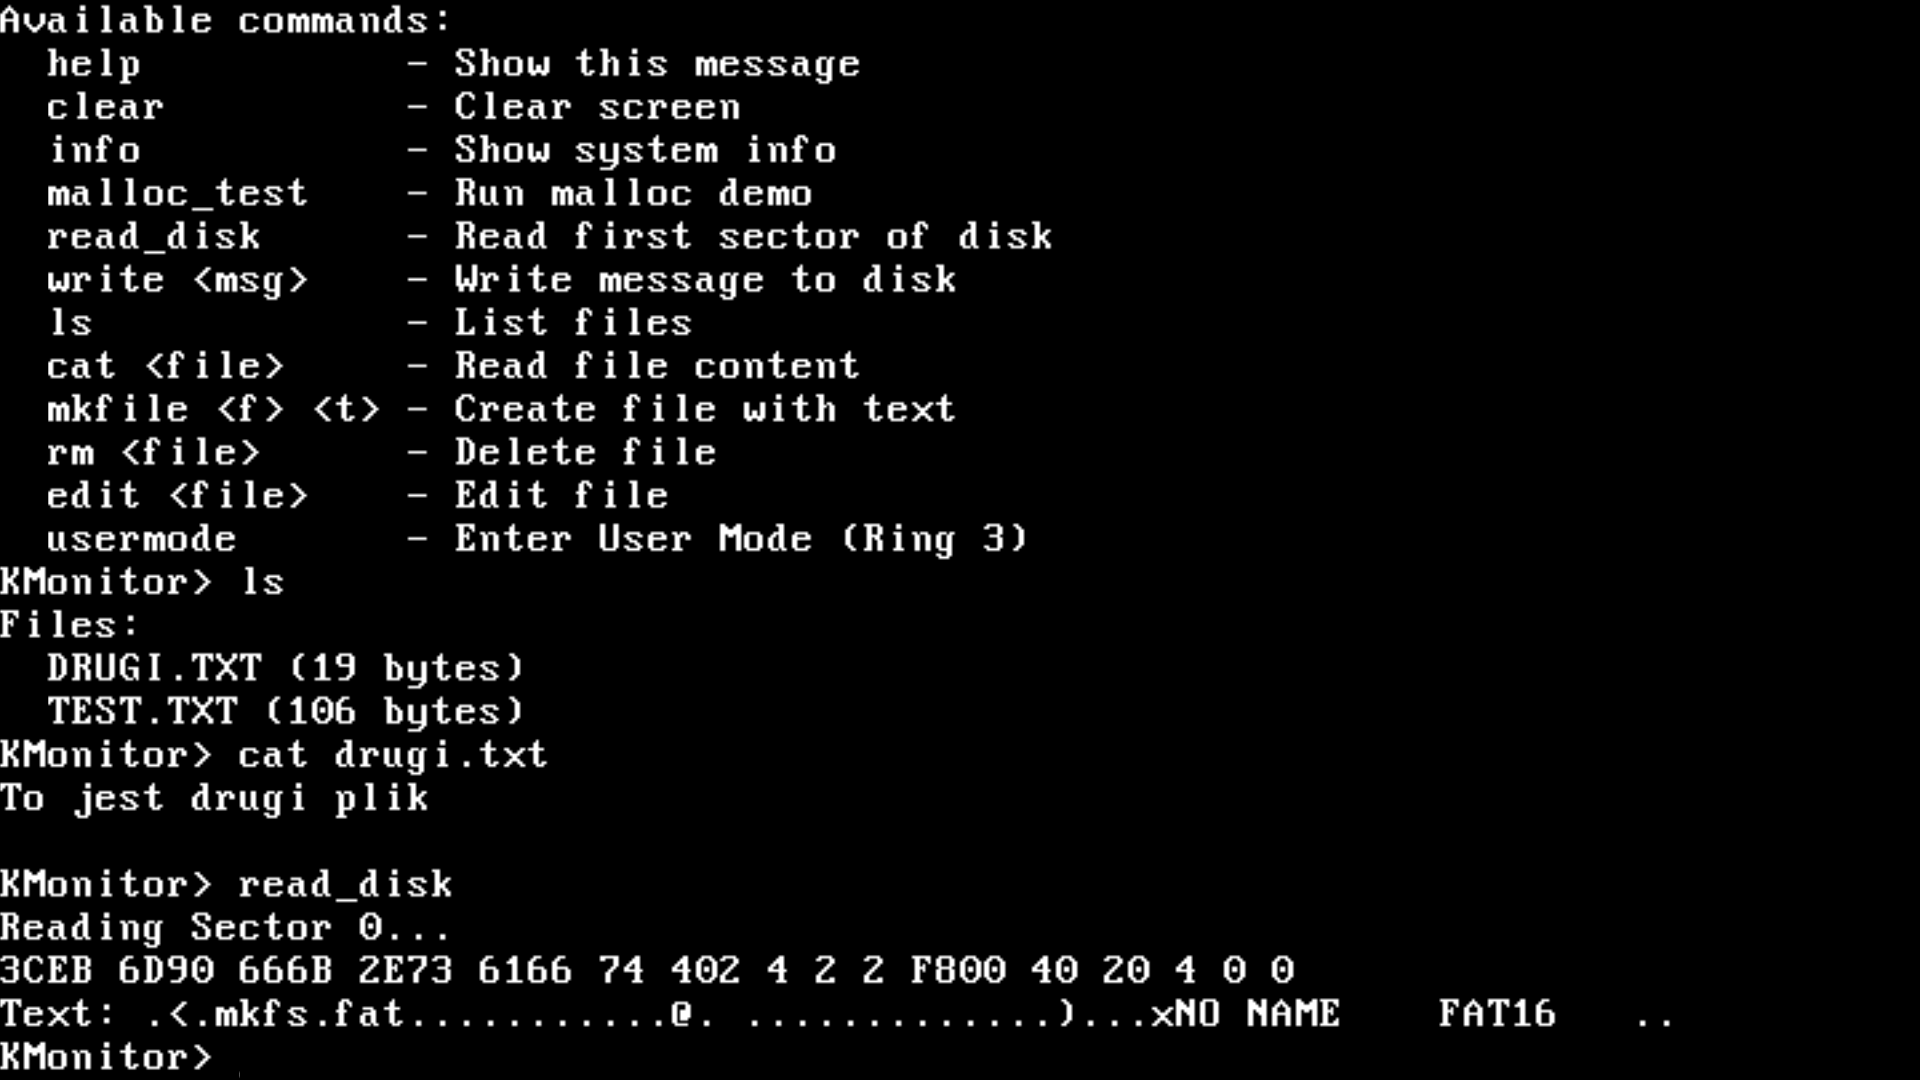
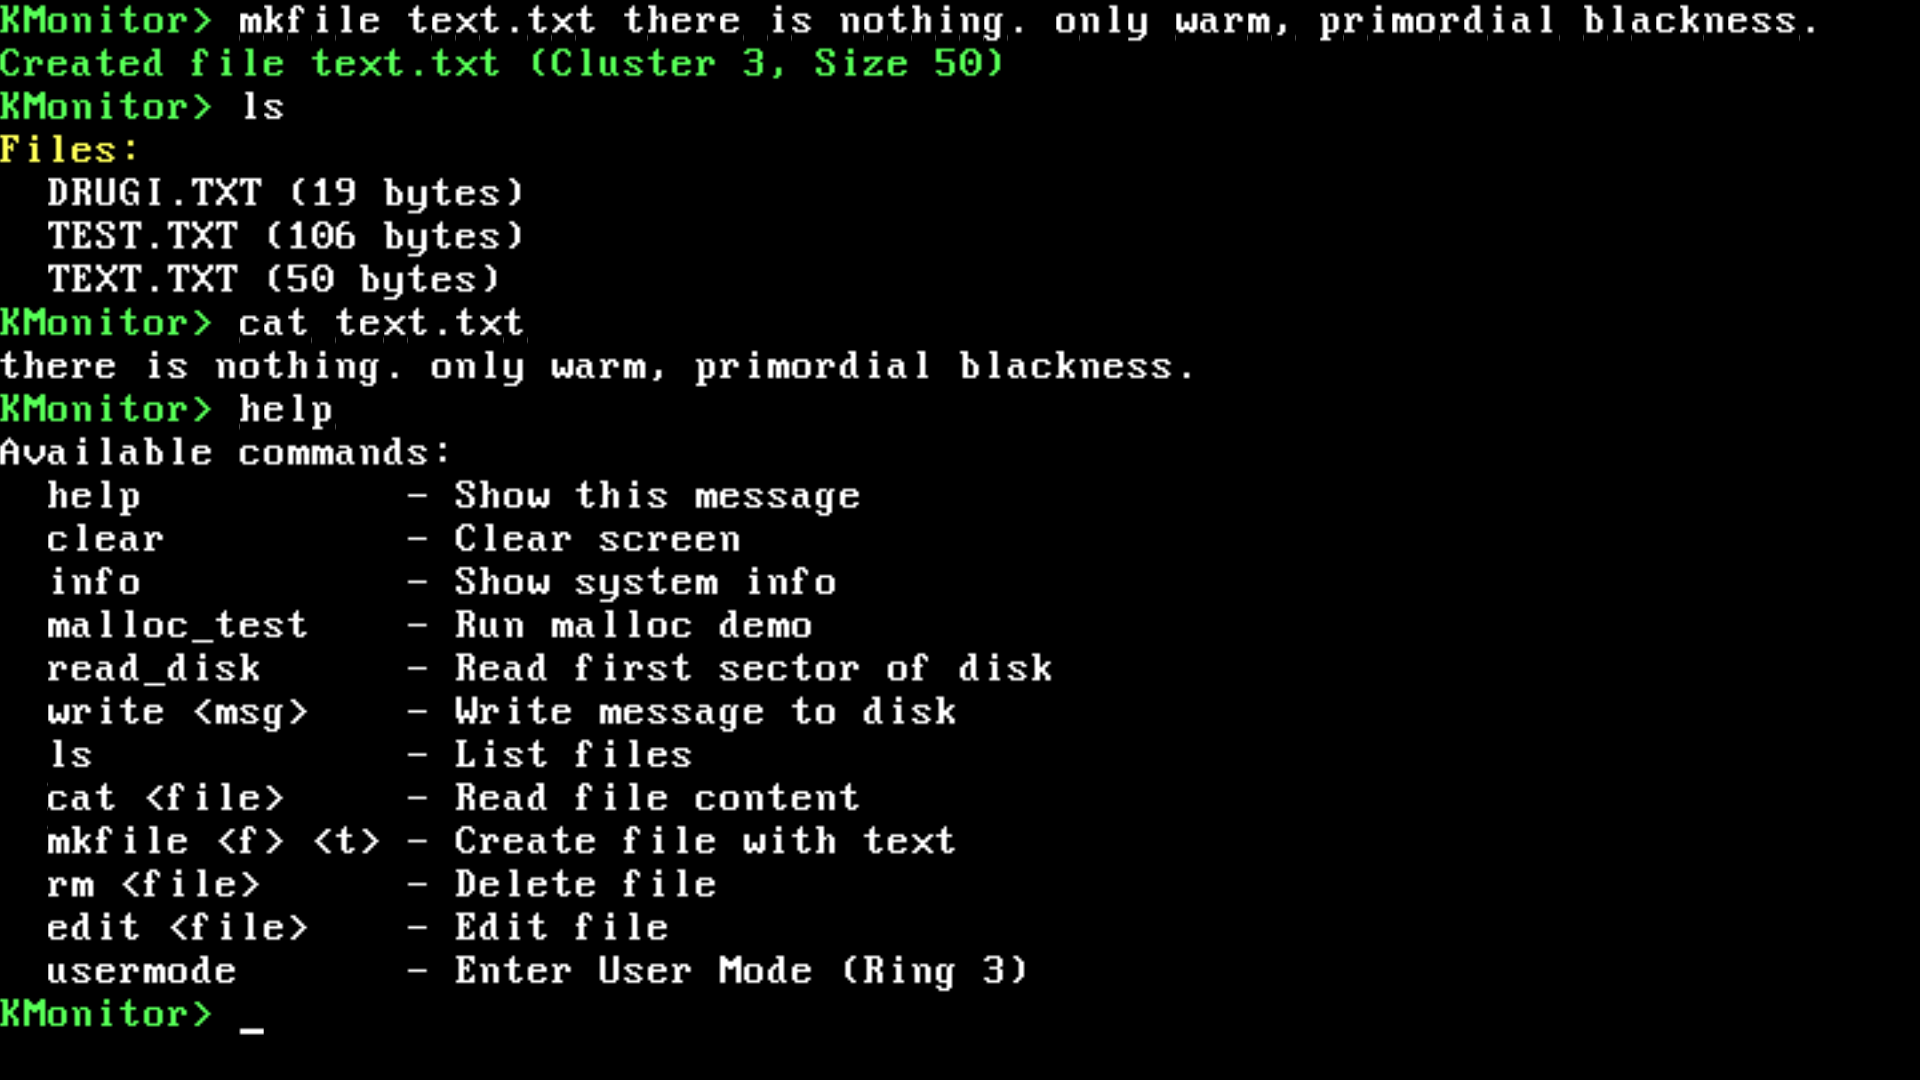
Added colors to make MeowOS more visually appealing

Changed region(s): [[0.0, 0.0, 0.9375, 1.0], [0.75, 0.9167, 0.8125, 0.9472]]

diff --git a/kernel/fs/fat.c b/kernel/fs/fat.c
@@ -79,7 +79,9 @@ void fat_ls() {
     uint32_t root_sectors = ((root_dir_entries * 32) + bytes_per_sector - 1) / bytes_per_sector;
     FAT_DirectoryEntry* dir = (FAT_DirectoryEntry*)malloc(512);
 
+    print_set_color(PRINT_COLOR_YELLOW, PRINT_COLOR_BLACK);
     print_str("Files:\n");
+    print_set_color(PRINT_COLOR_WHITE, PRINT_COLOR_BLACK);
 
     for (int i = 0; i < root_sectors; i++) {
         ata_read_sectors(root_start_sector + i, 1, (uint16_t*)dir);
@@ -106,7 +108,9 @@ void fat_ls() {
             name[k] = '\0';
 
             if (entry->attributes & FAT_ATTR_DIRECTORY) {
+                print_set_color(PRINT_COLOR_LIGHT_BLUE, PRINT_COLOR_BLACK);
                 printf("  [DIR] %s\n", name);
+                print_set_color(PRINT_COLOR_WHITE, PRINT_COLOR_BLACK);
             } else {
                 printf("  %s (%d bytes)\n", name, entry->file_size);
             }
@@ -158,7 +162,9 @@ void fat_read_file(char* filename) {
     free(dir);
 
     if (!found) {
+        print_set_color(PRINT_COLOR_LIGHT_RED, PRINT_COLOR_BLACK);
         printf("File not found: %s\n", filename);
+        print_set_color(PRINT_COLOR_WHITE, PRINT_COLOR_BLACK);
         return;
     }
 
@@ -334,7 +340,9 @@ void fat_create_root_entry(char* filename, uint16_t cluster, uint32_t size) {
     if (found) {
         ata_write_sectors(sector_to_write, 1, (uint16_t*)dir);
     } else {
+        print_set_color(PRINT_COLOR_LIGHT_RED, PRINT_COLOR_BLACK);
         print_str("FAT: Root Directory Full!\n");
+        print_set_color(PRINT_COLOR_WHITE, PRINT_COLOR_BLACK);
     }
     free(dir);
 }
@@ -342,7 +350,9 @@ void fat_create_root_entry(char* filename, uint16_t cluster, uint32_t size) {
 void fat_create_file(char* filename, char* content) {
     uint16_t cluster = fat_find_free_cluster();
     if (cluster == 0xFFFF) {
+        print_set_color(PRINT_COLOR_LIGHT_RED, PRINT_COLOR_BLACK);
         print_str("FAT: Disk Full!\n");
+        print_set_color(PRINT_COLOR_WHITE, PRINT_COLOR_BLACK);
         return;
     }
 
@@ -370,7 +380,9 @@ void fat_create_file(char* filename, char* content) {
     // Update Root Dir
     fat_create_root_entry(filename, cluster, len);
     
+    print_set_color(PRINT_COLOR_LIGHT_GREEN, PRINT_COLOR_BLACK);
     printf("Created file %s (Cluster %d, Size %d)\n", filename, cluster, len);
+    print_set_color(PRINT_COLOR_WHITE, PRINT_COLOR_BLACK);
 }
 
 void fat_delete_file(char* filename) {
@@ -418,9 +430,13 @@ void fat_delete_file(char* filename) {
     if (found) {
         ata_write_sectors(sector_to_write, 1, (uint16_t*)dir);
         fat_free_chain(cluster);
+        print_set_color(PRINT_COLOR_LIGHT_GREEN, PRINT_COLOR_BLACK);
         printf("Deleted file %s\n", filename);
+        print_set_color(PRINT_COLOR_WHITE, PRINT_COLOR_BLACK);
     } else {
+        print_set_color(PRINT_COLOR_LIGHT_RED, PRINT_COLOR_BLACK);
         printf("File not found: %s\n", filename);
+        print_set_color(PRINT_COLOR_WHITE, PRINT_COLOR_BLACK);
     }
     free(dir);
 }

diff --git a/kernel/kmonitor/editor.c b/kernel/kmonitor/editor.c
@@ -15,9 +15,11 @@ static int cursor_pos = 0;
 void editor_draw_ui(char* filename) {
     print_clear();
     print_set_color(PRINT_COLOR_WHITE, PRINT_COLOR_BLUE);
+    print_set_color(PRINT_COLOR_MAGENTA, PRINT_COLOR_BLACK);
     print_str("--- EDITING: ");
     print_str(filename);
     print_str(" (ESC to Quit/Save) ---\n");
+    print_set_color(PRINT_COLOR_WHITE, PRINT_COLOR_BLACK);
     print_set_color(PRINT_COLOR_WHITE, PRINT_COLOR_BLACK);
     
     print_str(buffer);
@@ -89,7 +91,9 @@ void editor_start(char* filename) {
         // 4. Logic
         if (c == 0x1B) { // ESC
             // Ask to save
+            print_set_color(PRINT_COLOR_LIGHT_CYAN, PRINT_COLOR_BLACK);
             print_str("\nSave changes? (y/n): ");
+            print_set_color(PRINT_COLOR_WHITE, PRINT_COLOR_BLACK);
             char choice = keyboard_get_char();
             if (choice == 'y' || choice == 'Y') {
                 // Save

diff --git a/kernel/kmonitor/kmonitor.c b/kernel/kmonitor/kmonitor.c
@@ -70,7 +70,9 @@ void kmonitor_init() {
     char cmd_buf[100];
 
     while (1) {
+        print_set_color(PRINT_COLOR_LIGHT_GREEN, PRINT_COLOR_BLACK);
         print_str("KMonitor> ");
+        print_set_color(PRINT_COLOR_WHITE, PRINT_COLOR_BLACK);
         gets(cmd_buf, 100);
 
         if (strcmp(cmd_buf, "help") == 0) {
@@ -196,7 +198,9 @@ void kmonitor_init() {
                 free(buf);
             }
         } else if (cmd_buf[0] != '\0') {
+            print_set_color(PRINT_COLOR_LIGHT_RED, PRINT_COLOR_BLACK);
             printf("Unknown command: %s\n", cmd_buf);
+            print_set_color(PRINT_COLOR_WHITE, PRINT_COLOR_BLACK);
         }
     }
 }
